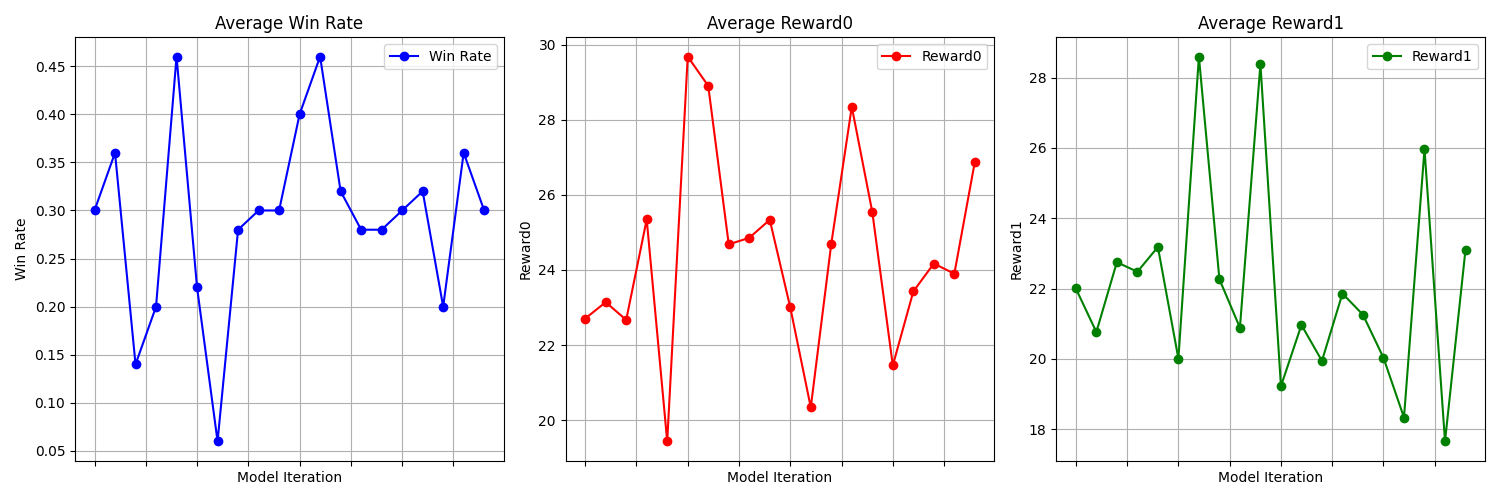
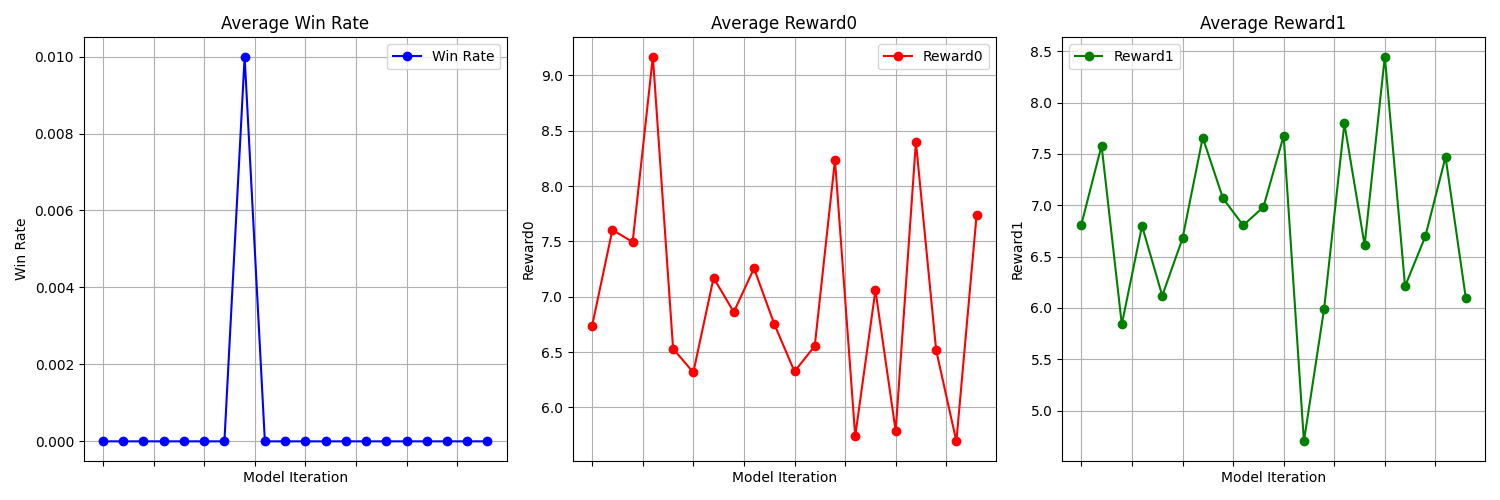
0825 finish 15 first test, push for merge

diff --git a/hok1v1/offline_sample/agent.py b/hok1v1/offline_sample/agent.py
@@ -111,13 +111,14 @@ class Agent:
         # reset lstm input
         self.lstm_hidden = np.zeros([self.lstm_unit_size])
         self.lstm_cell = np.zeros([self.lstm_unit_size])
-
+        print("a")
         if self.backend == 'pytorch':
             self.lstm_hidden = torch.zeros([1, 1, self.lstm_unit_size])
             self.lstm_cell = torch.zeros([1, 1, self.lstm_unit_size])
 
             self.lstm_step_count = 0
         self.agent_type = "network"
+        print("b")
         # if model_path == '/NAS2020/Workspaces/DRLGroup/jbhu/code/sample/hokoff/hok1v1/offline_logs/run5-6_1v1qmix/500000_model':
         #     for name, param in self.model.public_soldier.named_parameters():
         # for test without model pool
@@ -130,6 +131,7 @@ class Agent:
         if self.dataset is None:
             self.save_h5_sample = False
         else:
+            print("c")
             ### if there exists some data in tmp-dataset, then copy them all to dataset and clear tmp-dataset, else nothing to do ###
             self.save_h5_sample = True
             if len(self.tmp_dataset.keys()) == 0:
@@ -139,6 +141,7 @@ class Agent:
                 self.tmp_dataset = h5py.File(self.tmp_dataset_name, 'a')
             else:
                 for key in self.tmp_dataset.keys():  ### copy data from tmp dataset to dataset ###
+                    print("d")
                     if key not in self.dataset.keys():
                         self.dataset.create_dataset(
                             key,

diff --git a/hok1v1/display_tools/open_hdf5.py b/hok1v1/display_tools/open_hdf5.py
@@ -1,0 +1,36 @@
+import h5py
+
+# 打开HDF5文件
+with h5py.File('/NAS2020/Workspaces/DRLGroup/jbhu/code/sample/hokoff/hok1v1/datasets/06260203/level-0-1/1_0.hdf5', 'r') as f:
+    # 打印文件中的所有数据集名称
+    print("数据集名称：", list(f.keys()))
+
+    # 读取数据集中的数据
+    dataset = f['reward']  # 将 'your_dataset_name' 替换为实际的数据集名称
+    data1 = dataset[()]  # 读取数据集中的所有数据
+
+
+with h5py.File('/NAS2020/Workspaces/DRLGroup/jbhu/code/sample/hokoff/hok1v1/datasets/06260203/level-0-1/1_1.hdf5', 'r') as f:
+    # 打印文件中的所有数据集名称
+    print("数据集名称：", list(f.keys()))
+
+    # 读取数据集中的数据
+    dataset = f['reward']  # 将 'your_dataset_name' 替换为实际的数据集名称
+    data2 = dataset[()]  # 读取数据集中的所有数据
+
+    # 打印数据
+
+
+
+# 从文件中加载对象
+# with open('~/nas/code/sample/hokoff/hok1v1/datasets/06260203/level-0-1/1_0.hdf5', 'rb') as f:
+#     loaded_camp_index_list = pickle.load(f)
+# with open('~/nas/code/sample/hokoff/hok1v1/datasets/06260203/level-0-1/1_1.hdf5', 'rb') as f:
+#     loaded_camp_index_list2 = pickle.load(f)
+
+# 打印加载的对象
+print(data1.shape)
+print(data2.shape)
+print(data1)
+print(data2)
+print(((data1 + data2)==0).sum())

diff --git a/hok1v1/display_tools/pkl.py b/hok1v1/display_tools/pkl.py
@@ -18,8 +18,11 @@ from config.common_config import ModelConfig
 
 
 # 从文件中加载对象
-with open('~/nas/code/sample/hokoff/hok1v1/datasets/06251815/level-0-1/camp_index_list-actor-0.hdf5', 'rb') as f:
+with open('~/nas/code/sample/hokoff/hok1v1/datasets/06260203/level-0-1/1_0.hdf5', 'rb') as f:
     loaded_camp_index_list = pickle.load(f)
+with open('~/nas/code/sample/hokoff/hok1v1/datasets/06260203/level-0-1/1_1.hdf5', 'rb') as f:
+    loaded_camp_index_list2 = pickle.load(f)
 
 # 打印加载的对象
-print(loaded_camp_index_list)
+print(loaded_camp_index_list["reward"])
+print(loaded_camp_index_list2["reward"])

diff --git a/hok1v1/offline_sample/entry.py b/hok1v1/offline_sample/entry.py
@@ -128,6 +128,8 @@ def gc_as_lib(argv):
 
     addrs = []
     for i in range(AGENT_NUM):
+        print("id")
+        print(actor_id)
         addrs.append("tcp://0.0.0.0:{}".format(35300 + actor_id * AGENT_NUM + i))
 
     env = HoK1v1(
